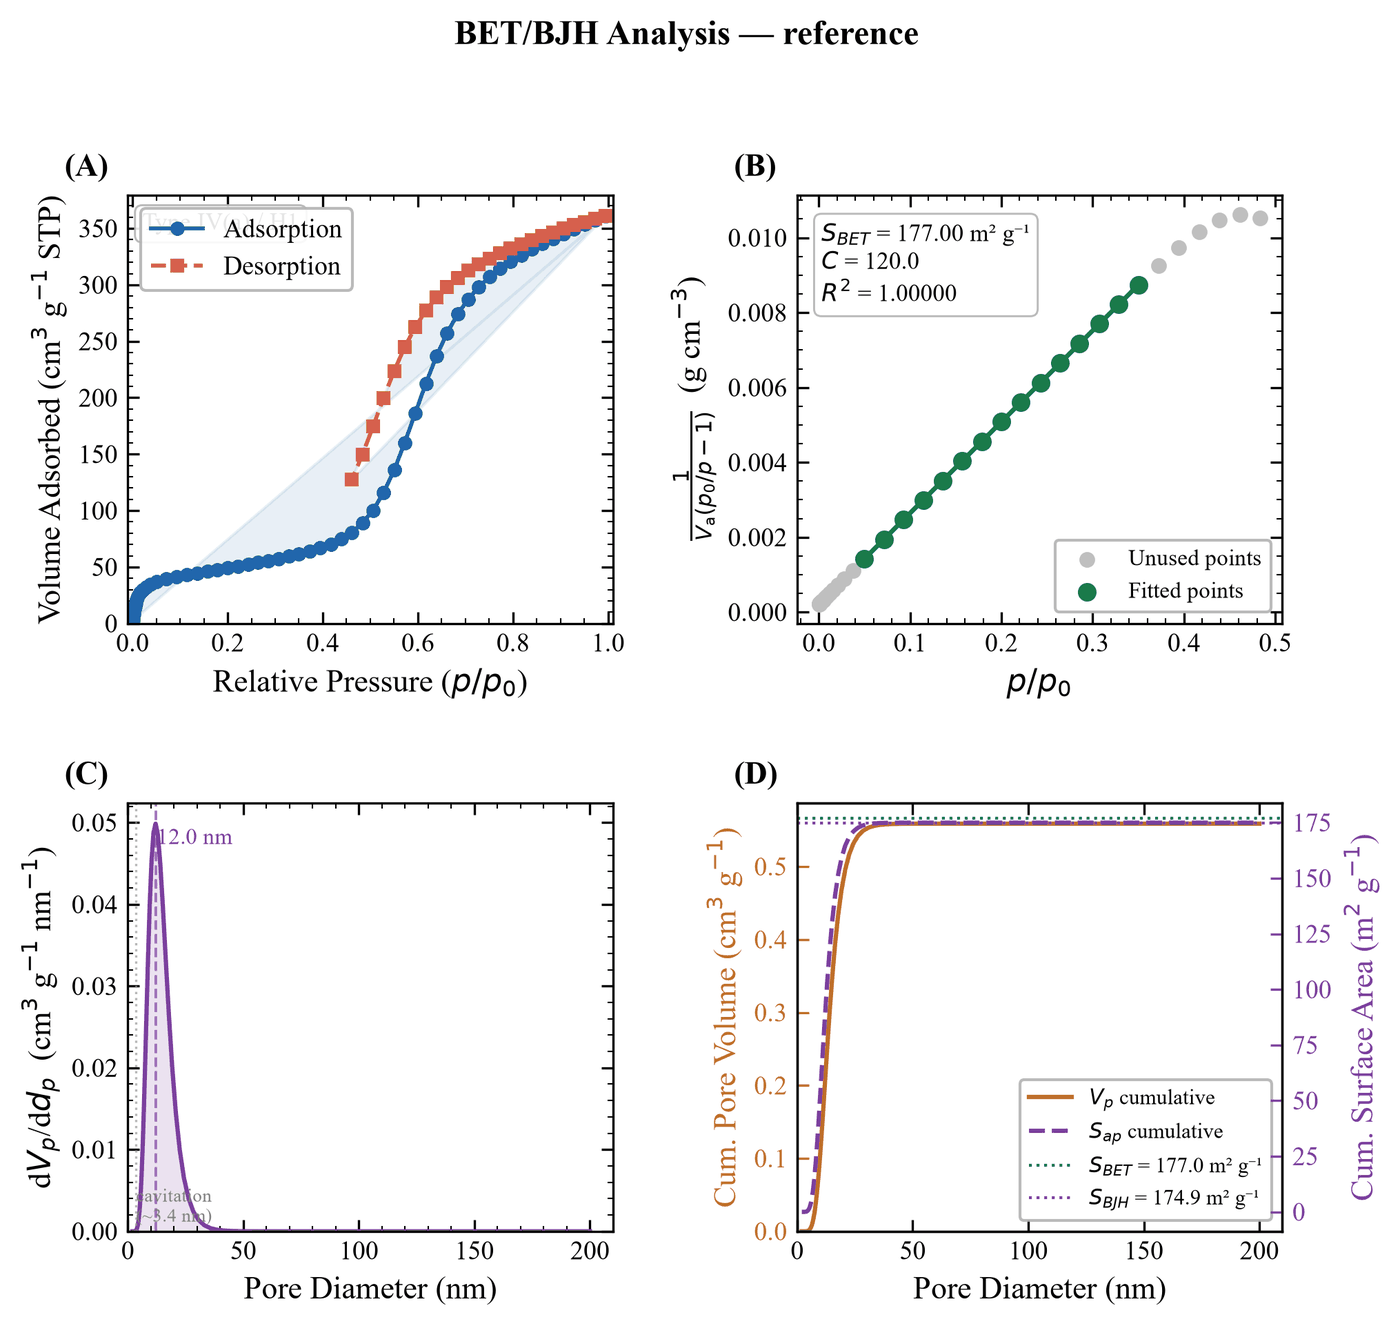
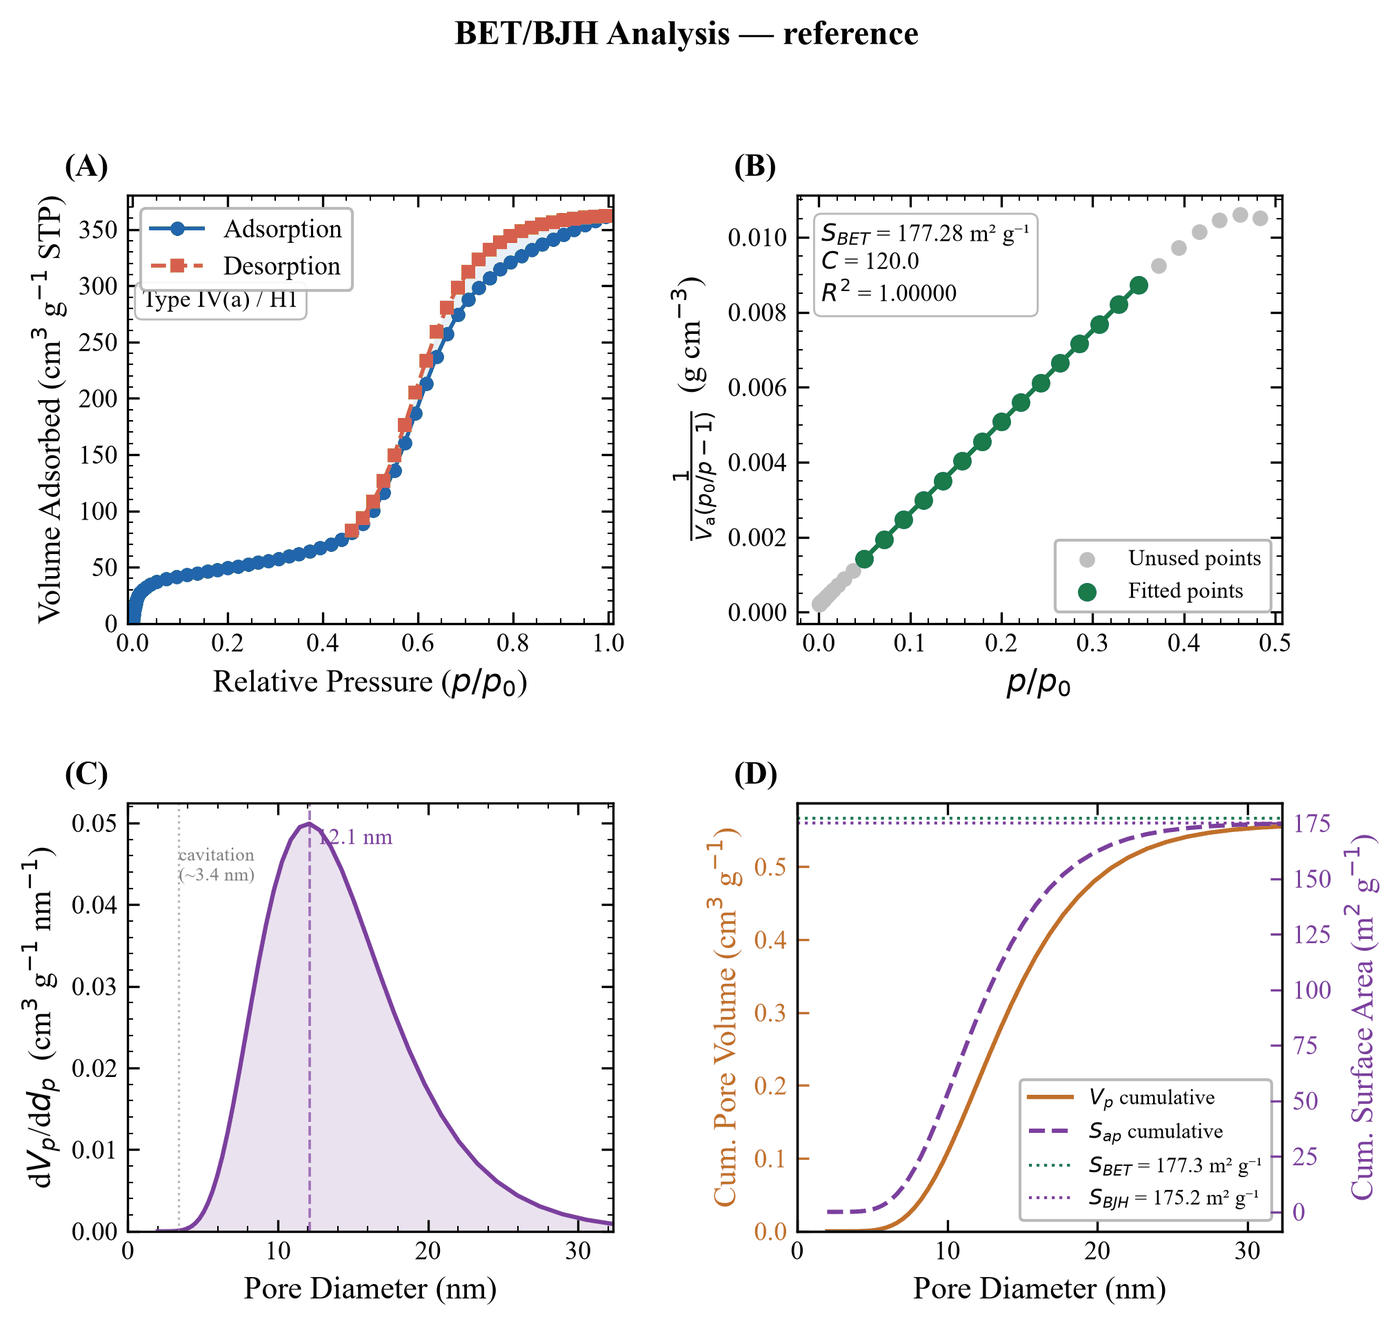
fix: hysteresis shading, label collision, axis limits; close reference loop

diff --git a/bet_analysis.py b/bet_analysis.py
@@ -775,10 +775,19 @@ def plot_all(data: dict, iso_cls: dict, hyst_cls: dict,
         sort_d = np.argsort(des[:, 0])[::-1]
         ax.plot(des[sort_d, 0], des[sort_d, 1], "s--",
                 color=C_DES, ms=4, lw=1.4, label="Desorption")
-        pp0_d_s, Va_d_s = des[sort_d, 0], des[sort_d, 1]
-        pp0_all = np.concatenate([ads[:, 0], pp0_d_s[::-1]])
-        Va_all  = np.concatenate([ads[:, 1], Va_d_s[::-1]])
-        ax.fill(pp0_all, Va_all, alpha=0.10, color=C_ADS)
+        # Shade only the hysteresis loop: the p/p0 interval where both branches
+        # exist, bounded by the two interpolated branches (not a single polygon
+        # with straight closing edges, which produced a full-width wedge).
+        p_lo = max(ads[:, 0].min(), des[:, 0].min())
+        p_hi = min(ads[:, 0].max(), des[:, 0].max())
+        if p_hi > p_lo:
+            p_grid = np.linspace(p_lo, p_hi, 200)
+            s_a = np.argsort(ads[:, 0])
+            s_d = np.argsort(des[:, 0])
+            Va_a_g = np.interp(p_grid, ads[s_a, 0], ads[s_a, 1])
+            Va_d_g = np.interp(p_grid, des[s_d, 0], des[s_d, 1])
+            ax.fill_between(p_grid, Va_a_g, Va_d_g, alpha=0.10,
+                            color=C_ADS, linewidth=0)
 
     ax.set_xlabel(r"Relative Pressure ($p/p_0$)")
     ax.set_ylabel(r"Volume Adsorbed (cm$^3$ g$^{-1}$ STP)")
@@ -791,7 +800,7 @@ def plot_all(data: dict, iso_cls: dict, hyst_cls: dict,
     iso_label  = iso_cls["type"]
     hyst_label = hyst_cls["type"] if hyst_cls["type"] != "None" else ""
     ax_ann = iso_label + (f" / {hyst_label}" if hyst_label else "")
-    ax.text(0.03, 0.96, ax_ann, transform=ax.transAxes,
+    ax.text(0.03, 0.78, ax_ann, transform=ax.transAxes,
             va="top", ha="left", fontsize=8.5,
             bbox=dict(boxstyle="round,pad=0.3", fc="white",
                       ec="0.7", lw=0.7, alpha=0.9))
@@ -833,6 +842,16 @@ def plot_all(data: dict, iso_cls: dict, hyst_cls: dict,
     rp    = bjh[:, 0] * 2          # radius (nm) -> diameter (nm)
     dVdd  = bjh[:, 1] / 2.0        # dVp/drp -> dVp/ddp
 
+    # Upper x-limit from the data: the smallest diameter where the cumulative
+    # pore volume reaches 99 % of its final value (drops the mostly-empty
+    # high-diameter tail), with a floor so microporous samples aren't cramped.
+    x_max = float(rp[-1])
+    if bjh[-1, 2] > 0:
+        done = np.where(bjh[:, 2] >= 0.99 * bjh[-1, 2])[0]
+        if len(done):
+            x_max = float(rp[done[0]])
+    x_max = max(x_max, 5.0)
+
     ax.plot(rp, dVdd, "-", color=C_BJH, lw=1.5)
     ax.fill_between(rp, dVdd, alpha=0.15, color=C_BJH)
 
@@ -843,15 +862,15 @@ def plot_all(data: dict, iso_cls: dict, hyst_cls: dict,
 
     ax.set_xlabel(r"Pore Diameter (nm)")
     ax.set_ylabel(r"d$V_p$/d$d_p$  (cm$^3$ g$^{-1}$ nm$^{-1}$)")
-    ax.set_xlim(left=0)
+    ax.set_xlim(left=0, right=x_max)
     ax.set_ylim(bottom=0)
     ax.xaxis.set_minor_locator(AutoMinorLocator())
     ax.yaxis.set_minor_locator(AutoMinorLocator())
 
     ax.axvline(N2_CAVITATION_NM, ls=":", lw=0.8, color="0.6", alpha=0.7)
-    ax.text(N2_CAVITATION_NM + 0.2,
-            ax.get_ylim()[1] * 0.01 if ax.get_ylim()[1] > 0 else 0.001,
-            "cavitation\n(~3.4 nm)", fontsize=6.5, color="0.5", va="bottom")
+    ax.text(N2_CAVITATION_NM, ax.get_ylim()[1] * 0.9,
+            "cavitation\n(~3.4 nm)", fontsize=6.5, color="0.5",
+            va="top", ha="left")
     _label_panel(ax, "C")
 
     # ── [D] Cumulative Pore Volume ────────────────────────────
@@ -876,7 +895,7 @@ def plot_all(data: dict, iso_cls: dict, hyst_cls: dict,
     ax2.set_ylabel(r"Cum. Surface Area (m$^2$ g$^{-1}$)", color=C_BJH)
     ax.tick_params(axis="y", colors=C_CUM)
     ax2.tick_params(axis="y", colors=C_BJH)
-    ax.set_xlim(left=0)
+    ax.set_xlim(left=0, right=x_max)
     ax.set_ylim(bottom=0)
 
     lines1, lbl1 = ax.get_legend_handles_labels()

diff --git a/examples/make_reference_data.py b/examples/make_reference_data.py
@@ -72,7 +72,7 @@ sys.path.insert(0, os.path.join(REPO, "tests"))
 # Reuse the project's own constants and physics generators (no second BET
 # implementation, no duplicated physical constants).
 from bet_analysis import N2_BET_FACTOR, N2_STP_TO_LIQUID  # noqa: E402
-from synthetic_isotherms import bet, step, desorption     # noqa: E402
+from synthetic_isotherms import bet, step, desorption_closed  # noqa: E402
 
 _trapezoid = getattr(np, "trapezoid", None) or np.trapz
 
@@ -94,10 +94,12 @@ X_STEP = 0.60
 STEP_W = 0.08
 STEP_H = 200.0                   # cm³(STP) g⁻¹ added by capillary condensation
 
-# Desorption branch (H1 loop): adsorption pressure shifted down by SHIFT above
-# CLOSE_AT (mirrors the TypeIV_H1 fixture in synthetic_isotherms).
-SHIFT    = 0.15
-CLOSE_AT = 0.45
+# Desorption branch (H1 loop, closed at both ends): a volume-domain bump
+# vd = v_ads + AMPLITUDE·sin(pi·u) that vanishes at CLOSE_AT and p/p0 = 1
+# (desorption_closed). AMPLITUDE = 25 keeps the closure gap < 0.02, the branch
+# monotonic, slope_ratio_max <= 1.10, and a visible H1 loop (area_norm ~ 0.024).
+AMPLITUDE = 25.0
+CLOSE_AT  = 0.45
 
 # BJH mesopore peak (radius, nm) → 12 nm diameter peak.
 R_PEAK  = 6.0
@@ -120,7 +122,7 @@ def make_isotherm(n_m):
     x = _grid()
     va = bet(x, n_m, C, n=N_LAYERS) + step(x, X_STEP, STEP_W, STEP_H)
     ads = np.column_stack([x, va])
-    des = desorption(x, va, SHIFT, CLOSE_AT)
+    des = desorption_closed(x, va, AMPLITUDE, CLOSE_AT)
     return x, ads, des
 
 
@@ -132,7 +134,7 @@ def make_bjh(vp_total):
     trapezoidal integrals of ``dV`` over the same radius grid (cylindrical
     pore geometry: dS = 2 dV / r, with 1 cm³→1e-6 m³ and 1 nm→1e-9 m).
     """
-    rp = np.logspace(np.log10(1.0), np.log10(100.0), 60)
+    rp = np.logspace(np.log10(1.0), np.log10(25.0), 60)
     dV = np.exp(-0.5 * ((np.log(rp) - np.log(R_PEAK)) / R_SIGMA) ** 2)
     dV /= _trapezoid(dV, rp)
     dV *= vp_total

diff --git a/tests/synthetic_isotherms.py b/tests/synthetic_isotherms.py
@@ -88,6 +88,22 @@ def desorption(x, v_ads, shift, close_at):
     vd = np.maximum(vd, np.interp(xd, x, v_ads))
     return np.column_stack([xd, vd])
 
+
+def desorption_closed(x, v_ads, amplitude, close_at):
+    """H1 desorption branch that closes at close_at.
+
+    Separation is added in the *volume* domain (vd = v_ads + A·sin(pi·u))
+    rather than the *pressure* domain, so the two branches stay nearly
+    parallel: condensation and evaporation keep the same steepness, as
+    expected for a single pore-size distribution.  The bump vanishes at both
+    ends, so the loop is closed at the bottom and the top.
+    """
+    m = x >= close_at
+    xd = x[m]
+    u = (xd - close_at) / (1.0 - close_at)
+    vd = v_ads[m] + amplitude * np.sin(np.pi * u)
+    return np.column_stack([xd, vd])
+
 CASES = {
     "TypeIa_noHyst":  (type_Ia,  None),
     "TypeIb_noHyst":  (type_Ib,  None),

diff --git a/README.md b/README.md
@@ -27,7 +27,7 @@ Developed and validated for **graphene-like carbon nitride (C₃N₄)**, MOFs, z
 
 *Output of `bet_analysis.py` on the bundled reference dataset — a synthetic
 Type IV isotherm whose true surface area is known by construction
-(S_BET = n_m × 4.353 = 177.00 m² g⁻¹; the tool recovers 177.01, R² = 0.999999).
+(S_BET = n_m × 4.353 = 177.28 m² g⁻¹; the tool recovers 177.28, R² = 0.999999).
 Reproduce it with:*
 
 ```bash
@@ -202,6 +202,10 @@ Cychosz & Thommes 2018 §3). §6.1 also recommends argon at 87 K over nitrogen
 at 77 K where surface functional groups interact with the N2 quadrupole.
 ```
 
+*This example message is from a measurement whose lowest adsorption point sits
+above p/p₀ = 0.015. The bundled reference dataset is purely mesoporous and does
+not trigger this gate.*
+
 | Check | Behaviour |
 |-------|-----------|
 | **BET C constant** | `UserWarning` raised if C < 0 — invalid p/p₀ range; adjust `start_pt`/`end_pt` to 0.05 ≤ p/p₀ ≤ 0.35 |
@@ -316,6 +320,9 @@ regenerates it and prints the check.
 It contains no measured data. All four sheets (AdsDes, BET, BJH, Summary)
 derive from the same monolayer capacity and pore-size distribution, so the file
 is internally self-consistent: S_BET and S_BJH agree to within 1.2 %.
+
+Every figure in this README was produced from this synthetic file. No measured
+instrument data is included in this repository.
 
 ---
 
